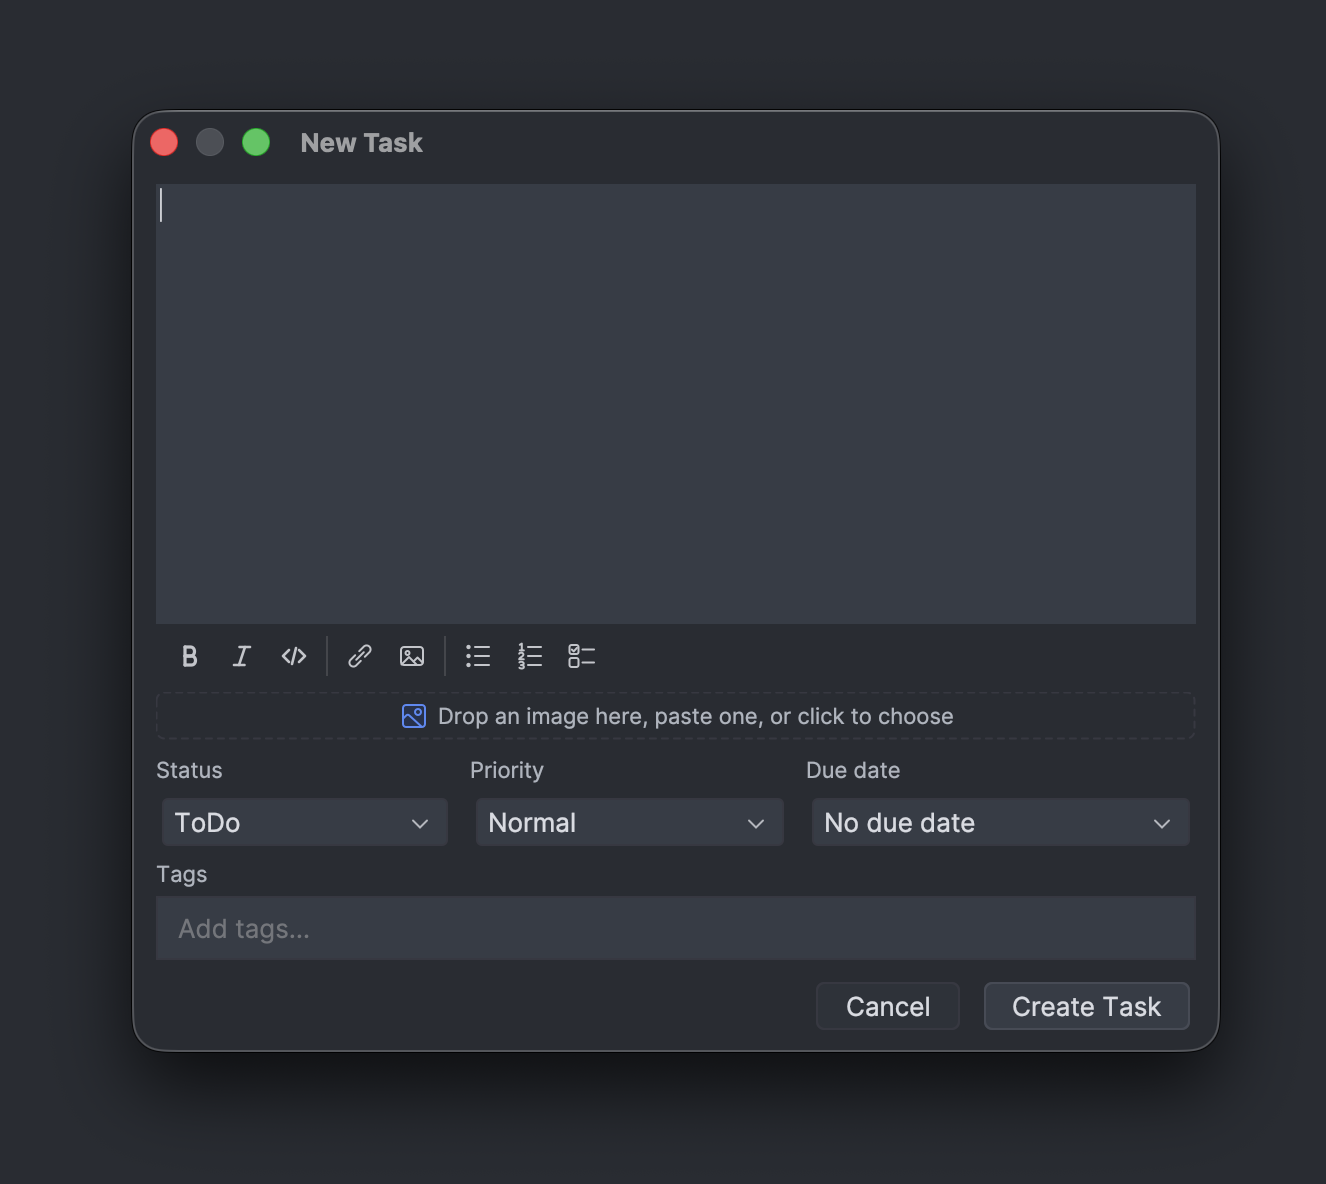
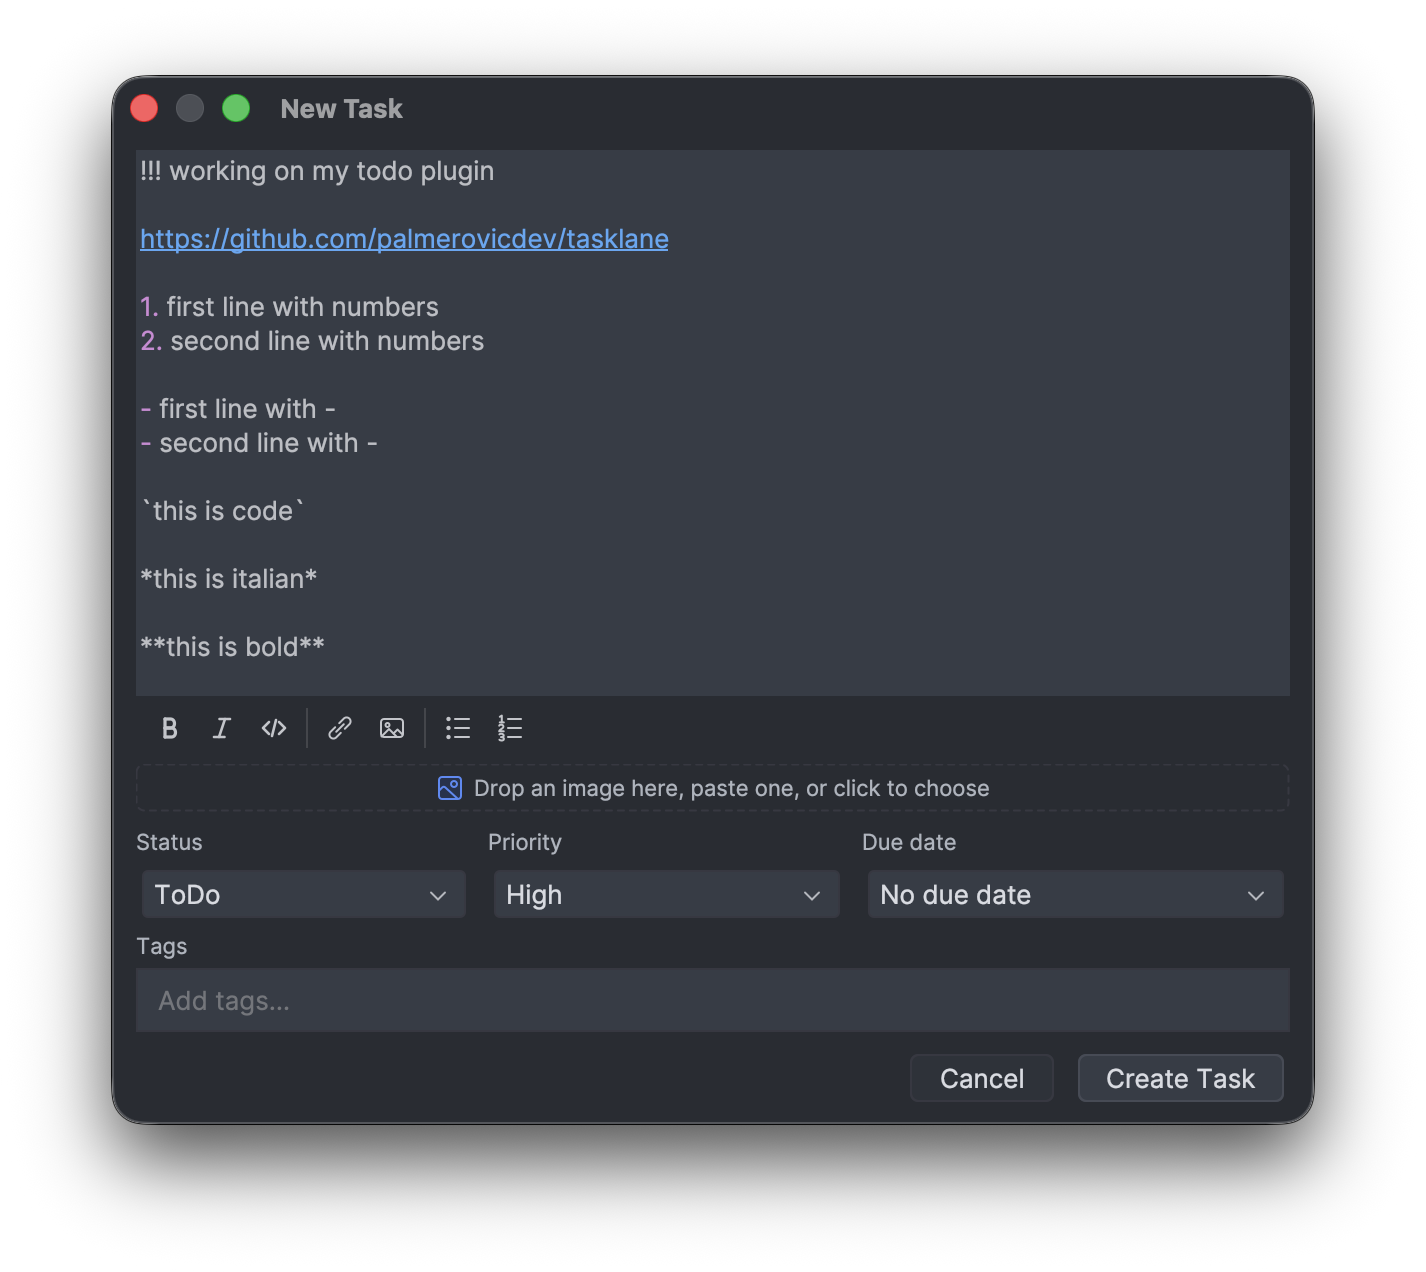
Update Tasklane plugin to version 2.5.1, featuring new screenshots reflecting the current UI for the tool window, expanded card, task dialogs, context and export menus, editor mark, and settings. This patch does not introduce any format changes, ensuring compatibility with version 2.5.0. Updated doc

diff --git a/README.md b/README.md
@@ -11,9 +11,29 @@ sin una sola llamada de red.
 </div>
 
 <div align="center">
-  <img src="docs/screenshots/tool-window.png" width="330" alt="La tool window de Tasklane: estados como pestañas con su recuento, buscador y una tarjeta por tarea con su franja de prioridad">
+  <img src="docs/screenshots/tool-window.png" width="660" alt="La tool window de Tasklane: estados como pestañas con su recuento, buscador y una tarjeta por tarea con su franja de prioridad">
+</div>
+
+<div align="center">
+  <img src="docs/screenshots/expanded-card.png" width="330" alt="Una tarjeta desplegada con el cuerpo Markdown entero, distintivos de prioridad, enlace y ancla de código">
   &nbsp;&nbsp;
-  <img src="docs/screenshots/new-task.png" width="440" alt="El diálogo de tarea nueva: cuerpo en Markdown con barra de formato, zona para soltar imágenes, y estado, prioridad, vencimiento y etiquetas">
+  <img src="docs/screenshots/new-task.png" width="330" alt="El diálogo de tarea nueva: cuerpo en Markdown con barra de formato, zona para soltar imágenes, y estado, prioridad, vencimiento y etiquetas">
+</div>
+
+<div align="center">
+  <img src="docs/screenshots/edit-task.png" width="330" alt="Editando una tarea con captura pegada y ficha de ancla de código">
+  &nbsp;&nbsp;
+  <img src="docs/screenshots/context-menu.png" width="330" alt="El menú contextual de la tarjeta: crear, editar, completar, marcar, mover, prioridad, exportar y borrar">
+</div>
+
+<div align="center">
+  <img src="docs/screenshots/editor-mark.png" width="660" alt="La marca del ancla en el editor: el tooltip enseña la tarea con su captura y un clic la abre en Tasklane">
+</div>
+
+<div align="center">
+  <img src="docs/screenshots/export-menu.png" width="330" alt="El menú Export: copiar estado, grupo o selección, guardar el repositorio, exportar a XML o vaciarlo">
+  &nbsp;&nbsp;
+  <img src="docs/screenshots/settings-images.png" width="330" alt="Los ajustes de Tasklane: estados, prioridades con triggers y colores, repositorios, anclas e imágenes">
 </div>
 
 ---
@@ -65,7 +85,7 @@ Desde el IDE: *Settings → Plugins → Marketplace*, buscar **Tasklane**.
 O con el zip, que es lo que produce este repositorio:
 
 ```bash
-./gradlew buildPlugin          # -> build/distributions/tasklane-2.5.0.zip
+./gradlew buildPlugin          # -> build/distributions/tasklane-2.5.1.zip
 ```
 
 *Settings → Plugins → ⚙ → Install Plugin from Disk…*
@@ -812,7 +832,7 @@ workflow [`release.yml`](.github/workflows/release.yml) comprueba que la etiquet
 3. [`CHANGELOG.md`](CHANGELOG.md)
 
 ```bash
-git tag v2.5.0 && git push origin v2.5.0
+git tag v2.5.1 && git push origin v2.5.1
 ```
 
 **Secretos del repositorio.** Los cuatro van como *secrets* de GitHub Actions y no

diff --git a/CHANGELOG.md b/CHANGELOG.md
@@ -9,6 +9,13 @@ de ahí manda semver sobre lo publicado.
 > `changeNotes` en `build.gradle.kts` —que es lo que sale en la ficha del Marketplace y
 > en el diálogo de actualización del IDE— y este fichero.
 
+## [2.5.1]
+
+Parche sin cambio de formato: capturas de la ficha (`docs/screenshots/`, README y
+descripción del Marketplace) rehechas sobre la interfaz actual —ventana, tarjeta
+desplegada, diálogos, menús contextuales y de exportación, marca en el editor y
+ajustes—.
+
 ## [2.5.0] — IntelliJ IDEA 2026.1.5 en adelante
 
 Menor aunque sube el mínimo de plataforma: quien siga en un IDE anterior no pierde nada, se
